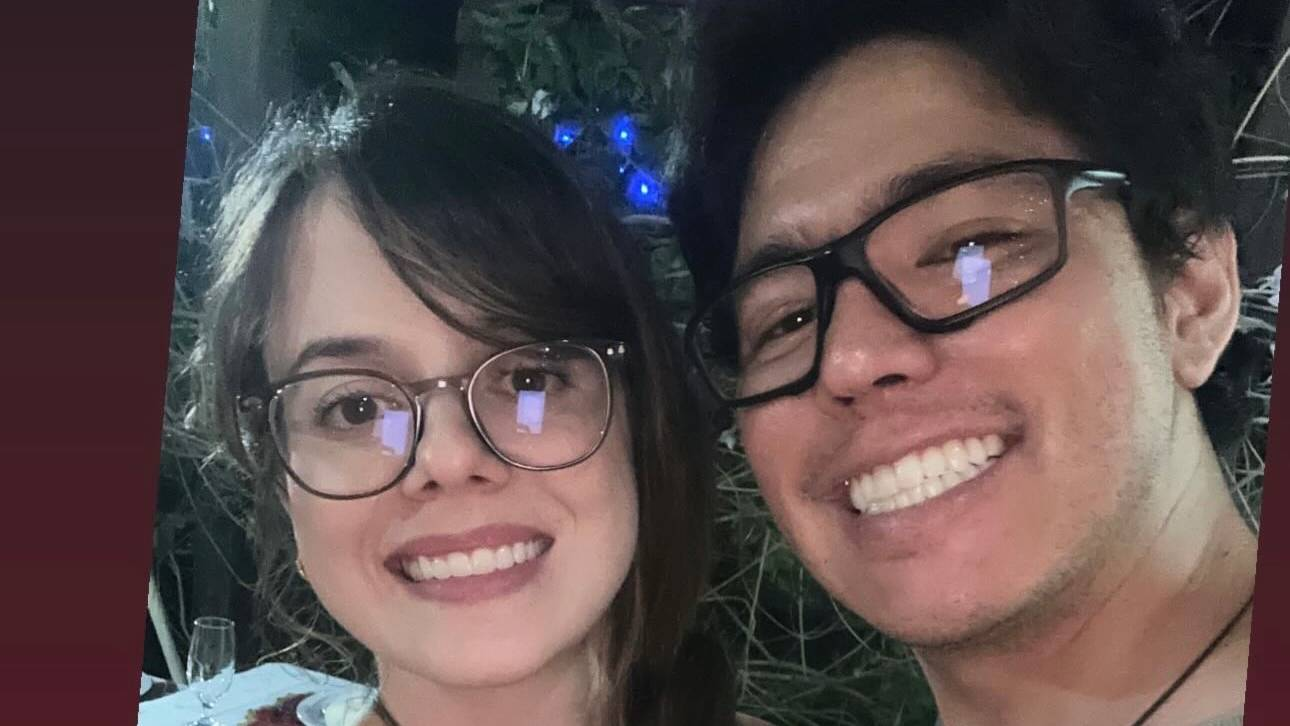
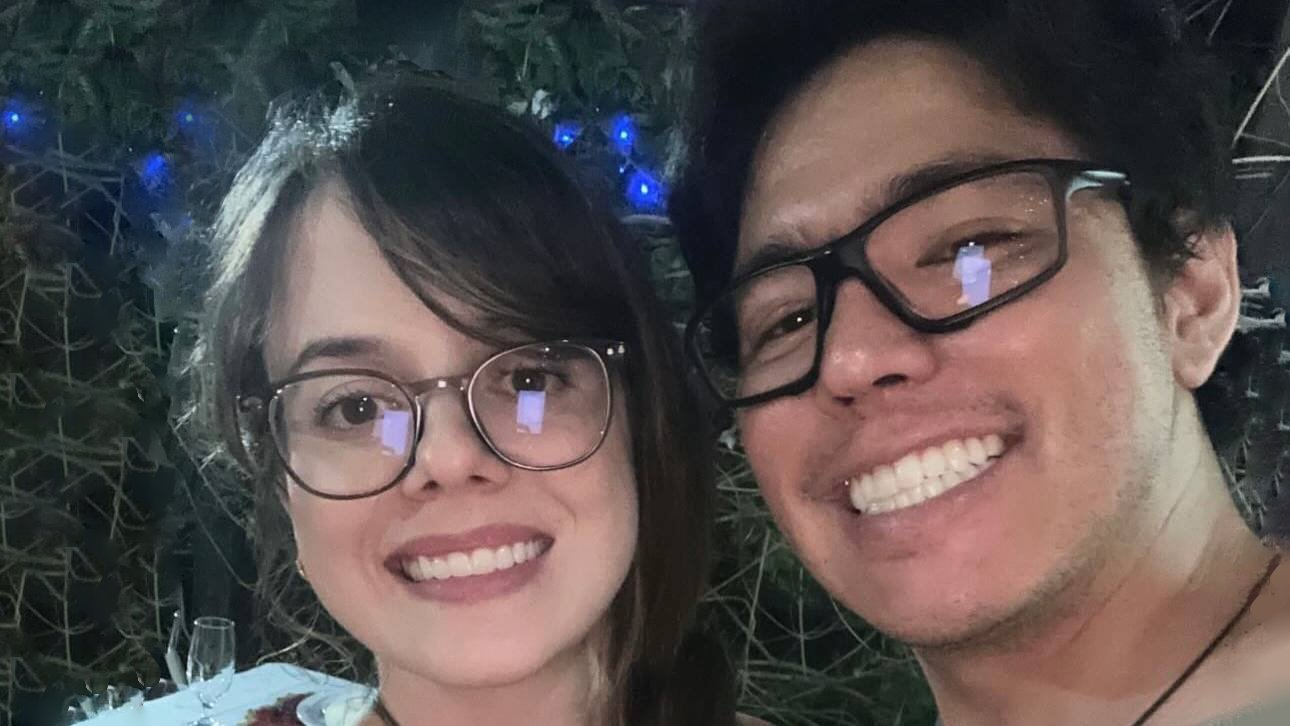
fix: to responive about us

diff --git a/src/components/AboutUs/about-us.styles.tsx b/src/components/AboutUs/about-us.styles.tsx
@@ -1,6 +1,7 @@
 import styled, {css} from 'styled-components';
 import flower from '../../assets/flower-large.svg'
 import {CardProps, WrapperCardProps} from "./about-us.types.tsx";
+import {device} from "../../App.theme.ts";
 
 export const MontserratTitle = styled.h1`
     font-family: "Montserrat", "Open Sans", "Raleway", serif;
@@ -30,6 +31,7 @@ export const Container = styled.section`
     gap: 2rem;
     text-align: justify;
     align-items: center;
+
 `
 
 export const WrapperCard = styled.section<WrapperCardProps>`
@@ -39,6 +41,13 @@ export const WrapperCard = styled.section<WrapperCardProps>`
     align-items: flex-start;
     justify-content: flex-start;
     position: relative;
+    padding-top: 60px;
+    ${props => props.invert && css`
+        padding-top: 0px;
+        padding-bottom: 60px;
+        align-items: flex-end;
+        justify-content: flex-end;
+    `}
 
     &::before {
         content: "";
@@ -62,6 +71,22 @@ export const WrapperCard = styled.section<WrapperCardProps>`
             top: auto;
             transform: scaleX(-1) rotate(285deg);
         `} //filter: invert(7%) sepia(41%) saturate(237%) hue-rotate(-395deg) brightness(80%) contrast(90%)
+    }
+    @media ${device.desktop} {
+    }
+    @media ${device.laptop} {
+    }
+    @media ${device.tablet} {
+        flex-direction: column;
+        padding-top: 0;
+        padding-bottom: 0;
+        &::before {
+        top: auto;
+        bottom: -12px;
+            }
+    }
+    @media ${device.mobile} {
+
     }
 `
 export const HorizontMarging = styled.div`
@@ -101,18 +126,39 @@ export const VerticalMarging = styled.div`
 
 export const Card = styled.div<CardProps>`
     padding: 4rem;
+    display: flex;
+    flex-direction: column;
+    align-items: center;
+    justify-content: center;
     border: 36px solid transparent;
     --offset: 12px;
     --border-size: 1px;
     position: relative;
-    right: -70px;
-    top: 80px;
+    max-width: 65%;
+    z-index: 2;
     aspect-ratio: 7/4.8;
-    ${props => props.invert && css`
-        right: auto;
-        left: -70px;
-        top: 0px;
-    `}
+    @media ${device.desktop} {
+        max-width: 70%;
+        aspect-ratio: 7/4;
+    }
+    @media ${device.laptop} {
+        aspect-ratio: 7/7;
+    }
+    @media ${device.tablet} {
+        aspect-ratio: auto;
+        max-width: 90%;
+        align-self: flex-end;
+        margin-top: -50px;
+        ${props => props.invert && css`
+            align-self: flex-start;
+        `}
+    }
+    @media ${device.mobile} {
+        width: 100%;
+        align-self: center;
+        aspect-ratio: auto;
+        margin-top: 0px;
+    }
     background-color: rgb(255, 255, 255);
     -webkit-box-shadow: 0 0 5px 0 rgba(0, 0, 0, .1);
     -moz-box-shadow: 0 0 5px 0 rgba(0, 0, 0, .1);
@@ -138,25 +184,69 @@ export const Card = styled.div<CardProps>`
         border: inherit;
         box-sizing: border-box;
     }
-
-        // ${HorizontMarging},${VerticalMarging},${HorizontMarging}::before,${VerticalMarging}::before{
-    //     border-radius: 5px;
-    // }
+    
+    p,strong {
+        z-index: 2;
+    }
     
 `
 
-export const Image = styled.img`
+export const Image = styled.img<WrapperCardProps>`
     height: auto;
     width: 40%;
+    position: absolute;
+    right: 0;
+    top: 0;
+    z-index: 0;
     object-fit: cover;
     aspect-ratio: 5 / 6;
     object-position: center top;
-    border: 32px solid rgb(255, 255, 255);
+    border: 20px solid rgb(255, 255, 255);
+    ${props => props.invert && css`
+        right: auto;
+        left: 0;
+        top: auto;
+        bottom: 0;
+        object-position: bottom;
+    `}
+    @media ${device.desktop} {
+    aspect-ratio: 6 / 6;
+    width: 42%;
+    }
+    @media ${device.laptop} {
+        aspect-ratio: 4 / 6.5;
+    }
+    @media ${device.tablet} {
+        aspect-ratio: 6 / 6;
+        width: 90%;
+        position: relative;
+        align-self: center;
+    }
+    @media ${device.mobile} {
+        
+    }
 `
 export const Wrapper = styled.div`
     height: auto;
-    max-width:100vw;
+    max-width: 100vw;
     overflow: hidden;
     padding-bottom: 30px;
+    @media ${device.desktop} {
+        //background-color: red;
+        padding: 3rem;
+
+    }
+    @media ${device.laptop} {
+        //background-color: #f1a447;
+    }
+    @media ${device.tablet} {
+        //background-color: #1050f1;
+    }
+    @media ${device.mobile} {
+        //background-color: #b700ff;
+    }
+
+
+
 `
 

diff --git a/src/components/Invite/invite.styles.tsx b/src/components/Invite/invite.styles.tsx
@@ -61,8 +61,8 @@ export const HorizontMarging = styled.div`
     border-bottom: var(--border-size) solid currentcolor;
     top: calc(var(--border-size) * -1) !important;;
     bottom: calc(var(--border-size) * -1) !important;;
-    border-top-color: #ae8472;
-    border-bottom-color: #ae8472;
+    border-top-color: ${props => props.theme.colors.borderColor};
+    border-bottom-color: ${props => props.theme.colors.borderColor};
 
     &::before {
         top: calc(var(--vertical-offset) - var(--border-size));
@@ -77,8 +77,8 @@ export const VerticalMarging = styled.div`
     border-right: var(--border-size) solid currentcolor;
     right: calc(var(--border-size) * -1) !important;
     left: calc(var(--border-size) * -1) !important;;
-    border-left-color: #ae8472;
-    border-right-color: #ae8472;
+    border-left-color: ${props => props.theme.colors.borderColor};
+    border-right-color: ${props => props.theme.colors.borderColor};
 
     &::before {
         top: calc(var(--offset) - var(--border-size));
@@ -141,8 +141,8 @@ export const Wrapper = styled.div`
 export const Button = styled.button`
     margin-top: 4rem;
     padding: 1rem;
-    background: #ae8472;
-    color: #fff;
+    background: ${props => props.theme.colors.borderColor};
+    color: ${props => props.theme.colors.colorWhite};
     font-weight: 400;
     border: none;
     border-radius: 3px;
@@ -160,7 +160,7 @@ export const ContentCard = styled.div`
     font-weight: 300;
     font-style: normal;
     font-size: 2rem;
-    color: #9f9693;
+    color: ${props => props.theme.colors.defaultColor};
     text-align: justify;
     align-items: stretch;
     width: 100%;
@@ -169,7 +169,7 @@ export const ContentCard = styled.div`
         font-weight: 500;
         font-style: normal;
         font-size: 3rem;
-        color: #a8735e;
+        color: ${props => props.theme.colors.titleColor};
         align-self: center;
     }
 `
@@ -213,7 +213,7 @@ export const WrapperImage = styled.div`
     gap: 2rem;
     strong{
         text-transform: uppercase;
-        color: #a8735e;
+        color: ${props => props.theme.colors.titleColor};
     }
     
 }

diff --git a/src/components/AboutUs/index.tsx b/src/components/AboutUs/index.tsx
@@ -30,6 +30,7 @@ export function AboutUs() {
             </MontserratP>
 
             <WrapperCard>
+                <Image src={noivo} alt={"sad"}/>
                 <Card>
                     <HorizontMarging/>
                     <VerticalMarging/>
@@ -40,20 +41,15 @@ export function AboutUs() {
 
                     </MontserratP>
                 </Card>
-                <Image src={noivo} alt={"sad"}/>
+
             </WrapperCard>
             <WrapperCard invert={true}>
-                <Image src={noiva} alt={"sad"}/>
+                <Image src={noiva} alt={"sad"} invert={true}/>
                 <Card invert={true}>
                     <HorizontMarging/>
                     <VerticalMarging/>
                     <MontserratTitle>Carol</MontserratTitle>
-                    <MontserratP>Lorem ipsum dolor sit amet, consectetur adipiscing elit. Duis in tellus nec orci
-                        eleifend accumsan. Nullam ut ornare metus. Phasellus eu pulvinar purus. Praesent ut tortor
-                        eget arcu tempus luctus non non magna. Donec at nisl quis lectus porttitor cursus. Aliquam
-                        egestas sagittis auctor. In at lobortis nisl. Nunc at eros quis arcu rutrum eleifend eu eget
-                        nibh. Nullam eget posuere nibh. Nam nec nisi sit amet metus egestas rutrum. Pellentesque at
-                        ultricies tellus. Sed posuere molestie diam nec pharetra.
+                    <MontserratP>A Carol é uma mulher incrível, doce e meiga, sempre cheia de energia, capaz de cativar a todos com sua alegria. Ela carrega a inocência de uma menina, mas também a força de uma guerreira. Sua inteligência, determinação e companheirismo tornam impossível não admirar essa mulher. Eu orei tanto a Deus para que ela existisse, e Ele me entregou esse presente precioso chamado Carolina!
                     </MontserratP>
                 </Card>
 

diff --git a/src/App.tsx b/src/App.tsx
@@ -1,17 +1,17 @@
 import {Header} from './components/Header'
 import {GlobalStyle} from './App.styles'
-
-import styled from 'styled-components';
+import {ThemeProvider} from 'styled-components'
 import {AboutUs} from "./components/AboutUs";
 import {SubHeader} from "./components/SubHeader";
 import TimeLine from "./components/TimeLine";
 import {Invite} from "./components/Invite";
+import {theme} from "./App.theme.ts";
 
 
 function App() {
 
     return (
-        <>
+        <ThemeProvider theme={theme}>
             <GlobalStyle/>
             <Header></Header>
             <AboutUs />
@@ -21,7 +21,7 @@ function App() {
             <Invite type={'padrinho'} name={'luan'} />
             <Invite type={'madrinha'} name={'lurdes'} />
             <Invite type={'convidado'} name={'gustavo e familia'} />
-        </>
+        </ThemeProvider>
     )
 }
 

diff --git a/src/App.theme.ts b/src/App.theme.ts
@@ -1,0 +1,29 @@
+export const size = {
+    mobileL: '650px',
+    tablet: '850px',
+    laptop: '1074px',
+    desktop: '1170px',
+
+}
+
+export const device = {
+    mobile: `(max-width: ${size.mobileL})`,
+    tablet: `(max-width: ${size.tablet})`,
+    laptop: `(max-width: ${size.laptop})`,
+    desktop: `(max-width: ${size.desktop})`
+};
+
+export const theme = {
+   colors:{
+       borderColor: '#ae8472',
+       colorWhite: '#fff',
+       titleColor: '#a0715e',
+       defaultColor: '#9f9693',
+   },
+    measures:{
+        gap: '2rem',
+        borderMinRadius: '3px',
+        borderRadius: '5px',
+        borderMaxRadius: '8px',
+    }
+};

diff --git a/src/components/Header/header.styles.tsx b/src/components/Header/header.styles.tsx
@@ -77,7 +77,7 @@ export const NavBar = styled.nav`
         font-optical-sizing: auto;
         font-weight: 400;
         font-style: normal;
-        color: #fff;
+        color: ${props => props.theme.colors.colorWhite};
         font-size: 1.4rem;
         height: 1.4rem;
         line-height: 1.4rem;
@@ -92,7 +92,7 @@ export const HeaderText = styled.div`
     flex-direction: column;
     line-height: 10rem;
     font-style: normal;
-    color: white;
+    color: ${props => props.theme.colors.colorWhite};
     font-size: 10rem;
     font-weight: 700;
     align-items: center;

diff --git a/src/components/Photo/photo.styles.tsx b/src/components/Photo/photo.styles.tsx
@@ -10,6 +10,6 @@ export const PhotoWrapper = styled.div`
         width: 50vw;
         height: 50vh;
         object-fit: cover;
-        border-radius: 8px;
+        border-radius: ${props => props.theme.measures.borderMaxRadius};
     }
 `
